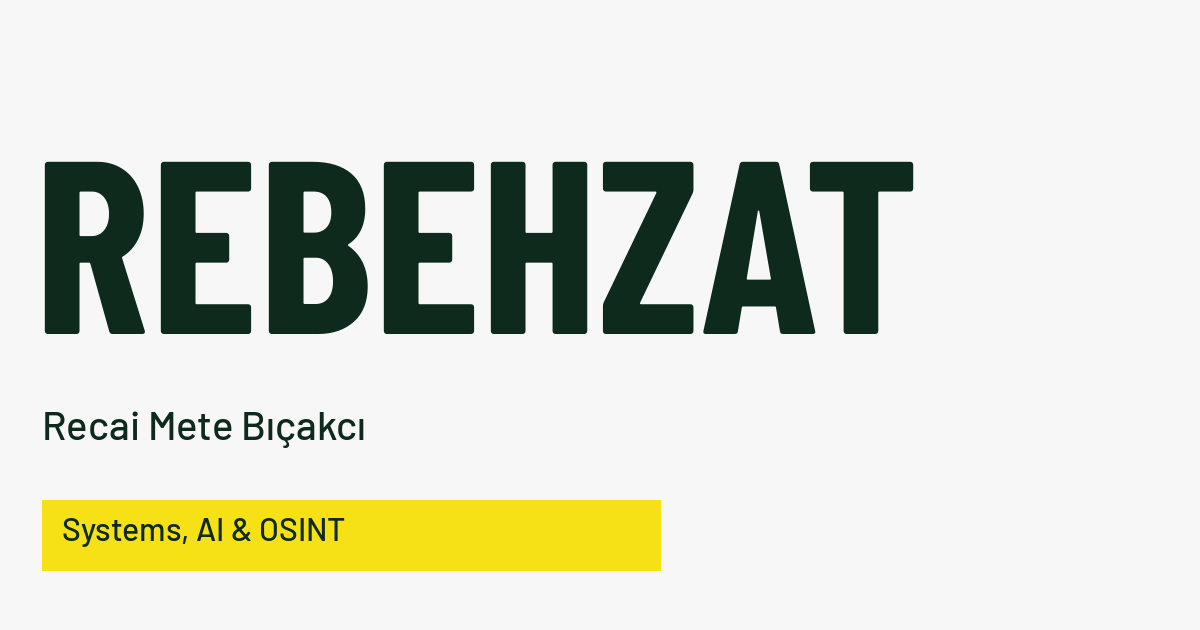
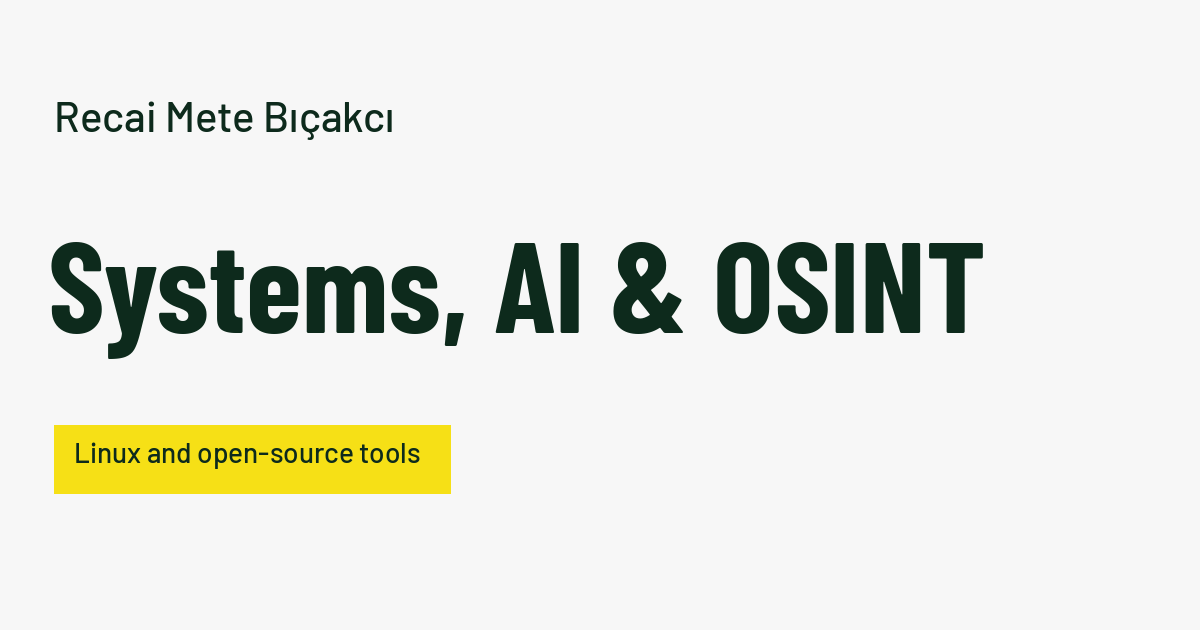
Remove oversized handle from homepage and social preview

Changed region(s): [[0.0308, 0.2413, 0.8325, 0.573], [0.0308, 0.6333, 0.555, 0.9048], [0.0308, 0.1508, 0.3392, 0.2111]]

diff --git a/index.html b/index.html
@@ -8,10 +8,10 @@
   <meta name="description" content="I'm Recai Mete Bıçakcı (rebehzat), an agentic engineer building Linux and AI tools, with an interest in security and OSINT. Explore my open-source work." />
   <meta name="author" content="Recai Mete Bıçakcı" />
   <link rel="canonical" href="https://behzat.org/" />
-  <link rel="icon" href="/assets/favicon.svg?v=20261026" type="image/svg+xml" />
-  <link rel="icon" href="/assets/favicon.png?v=20261026" type="image/png" sizes="64x64" />
+  <link rel="icon" href="/assets/favicon.svg?v=20261026b" type="image/svg+xml" />
+  <link rel="icon" href="/assets/favicon.png?v=20261026b" type="image/png" sizes="64x64" />
   <link rel="apple-touch-icon" href="/assets/apple-touch-icon.png" />
-  <link rel="stylesheet" href="/assets/landing.css?v=20261026" />
+  <link rel="stylesheet" href="/assets/landing.css?v=20261026b" />
   <link rel="preload" href="/assets/fonts/barlow-condensed-bold.ttf" as="font" type="font/ttf" crossorigin />
   <meta property="og:type" content="website" />
   <meta property="og:title" content="Recai Mete Bıçakcı | Systems, AI &amp; OSINT" />
@@ -20,9 +20,9 @@
   <meta property="og:image" content="https://behzat.org/assets/social.png" />
   <meta property="og:image:width" content="1200" />
   <meta property="og:image:height" content="630" />
-  <meta property="og:image:alt" content="REBEHZAT. Recai Mete Bıçakcı. Systems, AI and OSINT, in bottle-green type on off-white." />
+  <meta property="og:image:alt" content="Recai Mete Bıçakcı. Systems, AI and OSINT, in bottle-green type on off-white." />
   <meta name="twitter:card" content="summary_large_image" />
-  <script src="/assets/landing.js?v=20261026" defer></script>
+  <script src="/assets/landing.js?v=20261026b" defer></script>
 </head>
 <body id="top">
   <a class="skip" href="#content">Skip to content</a>
@@ -32,7 +32,7 @@
   </header>
   <main id="content">
     <section class="hero" aria-labelledby="hero-title">
-      <div class="monument"><h1 id="hero-title">REBEHZAT</h1></div>
+      <div class="wrap"><h1 id="hero-title">Systems, AI &amp; OSINT</h1></div>
       <div class="hero-bottom wrap">
         <p class="hero-description">I’m Recai Mete Bıçakcı, an agentic engineer building Linux and AI tools, with an interest in security and OSINT.</p>
         <a class="button" href="#work">Explore my work <span aria-hidden="true">↘</span></a>
@@ -94,6 +94,6 @@
       <div class="wrap"><div class="contact-intro"><h2 id="contact-title" data-reveal>Contact</h2><p data-reveal>Systems, search, security or a tool you’re building.<br />Write to me.</p></div><a class="contact-email" href="mailto:hello@behzat.org" data-reveal>hello@behzat.org</a><div class="contact-socials" data-reveal><a href="https://github.com/rebehzat">GitHub</a><a href="https://linkedin.com/in/rrecai">LinkedIn</a><a href="#top">Back to top</a></div></div>
     </section>
   </main>
-  <footer class="footer"><div class="wrap"><a class="footer-name" href="#top" aria-label="rebehzat, back to top">REBEHZAT</a><div class="footer-bottom"><p>© 2026 Recai Mete Bıçakcı</p><a href="https://github.com/rebehzat/rebehzat.github.io">Site source</a><p>Project images: <a href="https://github.com/rebehzat?tab=repositories">my GitHub documentation</a>.</p></div></div></footer>
+  <footer class="footer"><div class="wrap"><div class="footer-bottom"><p>© 2026 Recai Mete Bıçakcı</p><a href="https://github.com/rebehzat/rebehzat.github.io">Site source</a><p>Project images: <a href="https://github.com/rebehzat?tab=repositories">my GitHub documentation</a>.</p></div></div></footer>
 </body>
 </html>

diff --git a/assets/landing.css b/assets/landing.css
@@ -30,7 +30,6 @@
   --body:18px;
   --lead:clamp(22px,2.2vw,32px);
   --head:clamp(40px,4.2vw,62px);
-  --display:28.5vw;
   --gutter:24px;
   --ease:cubic-bezier(.22,1,.36,1)
 }
@@ -157,16 +156,11 @@ nav a {
   padding-bottom:80px;
   overflow:clip
 }
-.monument {
-  width:100%;
-  overflow:clip
-}
-.monument h1 {
-  font-size:var(--display);
-  line-height:.86;
-  text-align:center;
-  white-space:nowrap;
-  transform-origin:center
+#hero-title {
+  font-size:clamp(48px,7.2vw,104px);
+  max-width:19ch;
+  line-height:1;
+  transform-origin:left center
 }
 .hero-bottom {
   display:flex;
@@ -438,22 +432,11 @@ nav a {
   padding-block:20px 30px;
   overflow:clip
 }
-.footer-name {
-  display:block;
-  font:700 var(--display)/.86 var(--font-display);
-  letter-spacing:-.02em;
-  text-decoration:none;
-  text-align:center;
-  white-space:nowrap
-}
-.footer-name:hover {
-  text-decoration:none
-}
 .footer-bottom {
   display:flex;
   justify-content:space-between;
   gap:24px;
-  margin-top:50px;
+  margin-top:0;
   font-size:var(--small)
 }
 .footer-bottom p {
@@ -476,11 +459,6 @@ nav a {
 }
 .error-page .brand {
   margin-bottom:20px
-}
-@media(min-width:1700px) {
-  :root {
-    --display:470px
-  }
 }
 @media(max-width:900px) {
   :root {
@@ -546,8 +524,7 @@ nav a {
     --gutter:20px;
     --body:17px;
     --lead:23px;
-    --head:48px;
-    --display:27vw
+    --head:48px
   }
   .site-header {
     gap:14px
@@ -718,7 +695,7 @@ nav a {
   .footer-bottom {
     flex-wrap:wrap;
     gap:14px;
-    margin-top:36px
+    margin-top:0
   }
   .footer-bottom p:last-child {
     width:100%
@@ -732,11 +709,6 @@ nav a {
     animation:none!important;
     transition:none!important;
     transform:none!important
-  }
-}
-@media(min-width:600px) and (max-width:900px) {
-  .footer-name {
-    font-size:27vw
   }
 }
 html:not(.enhanced) .work-layout {
@@ -758,8 +730,8 @@ html:not(.enhanced) .projects {
       view-timeline-name:--hero;
       view-timeline-axis:block
     }
-    .monument h1 {
-      animation:name-scale linear both;
+    .hero h1 {
+      animation:hero-settle linear both;
       animation-timeline:--hero;
       animation-range:exit 0% exit 100%
     }
@@ -774,7 +746,7 @@ html:not(.enhanced) .projects {
     }
   }
 }
-@keyframes name-scale {
+@keyframes hero-settle {
   from {
     transform:scale(1)
   }

diff --git a/404.html b/404.html
@@ -6,8 +6,8 @@
   <meta name="robots" content="noindex" />
   <meta name="theme-color" content="#0d2a1c" />
   <title>404 | Page not found | Recai Mete Bıçakcı</title>
-  <link rel="icon" href="/assets/favicon.svg?v=20261026" type="image/svg+xml" />
-  <link rel="stylesheet" href="/assets/landing.css?v=20261026" />
+  <link rel="icon" href="/assets/favicon.svg?v=20261026b" type="image/svg+xml" />
+  <link rel="stylesheet" href="/assets/landing.css?v=20261026b" />
 </head>
 <body>
   <main class="error-page wrap">

diff --git a/README.md b/README.md
@@ -16,7 +16,7 @@ GitHub Pages publishes the repository root from `main`. Preserve `CNAME`, the ex
 
 ## Design
 
-The October 2026 redesign follows the design-taste-frontend **name-as-monument** direction, seed **1883959160**. The owner's `rebehzat` handle becomes the main title and closing signature. Barlow Condensed and Barlow are self-hosted under the SIL Open Font License (included in `assets/fonts/OFL.txt`). Bottle-green ink, off-white ground and a yellow accent replace the old banner theme.
+The October 2026 redesign follows the design-taste-frontend **name-as-monument** direction, seed **1883959160**. The owner then requested removing the oversized handle, so the final page uses a compact subject headline and a plain footer instead. Barlow Condensed and Barlow are self-hosted under the SIL Open Font License (included in `assets/fonts/OFL.txt`). Bottle-green ink, off-white ground and a yellow accent replace the old banner theme.
 
 The work section shows the four original public projects. Pointer, keyboard focus or a Preview button selects the corresponding documentation screenshot and source link. On phones each image sits above its own project. Without JavaScript, all four projects and images remain visible in a responsive layout. The OSINT copy states interests, without asserting investigative experience or credentials. Original competition results and contact details are retained. Use **Bıçakcı**, not Bıçakçı.
 
@@ -43,8 +43,8 @@ Semantic landmarks, one h1, descriptive links, a keyboard skip link and visible 
 
 The design inspector passes at 1440, 768 and 390 pixels with **0 failures**, down from 10, and one defended warning for no video. All final fold and page screenshots were opened and reviewed. Source lint passes. The three dependency-free site tests, JavaScript syntax and Git whitespace checks pass.
 
-A separate Chromium run verifies all four project selections, keyboard focus and skip link, no overflow or broken images at 320/390/768/1440/1920 pixels, local assets and retained FlyLLM resources, reduced motion (zero active animations), no-JavaScript content, and the 404 return link. It records no browser exceptions or failed resource responses. No axe audit or live deployment is claimed.
+A separate Chromium run verifies all four project selections, keyboard focus and skip link, no overflow or broken images at 320/390/768/1440/1920 pixels, local assets and retained FlyLLM resources, reduced motion (zero active animations), no-JavaScript content, and the 404 return link. It records no browser exceptions or failed resource responses. No axe audit is claimed. Deployment status is recorded separately in the release history.
 
 ## Rollback
 
-The previous production source is `d1ba873f58309e384822262f70f66bcd548e7920`. Revert the redesign through a new pull request to restore it. Do not force-push `main`. Publishing is separate from preparing and testing this branch.
+The previous production source is `d1ba873f58309e384822262f70f66bcd548e7920`. Revert the redesign through a new pull request to restore it. Do not force-push `main`. The owner approved publication after the oversized handle was removed.
